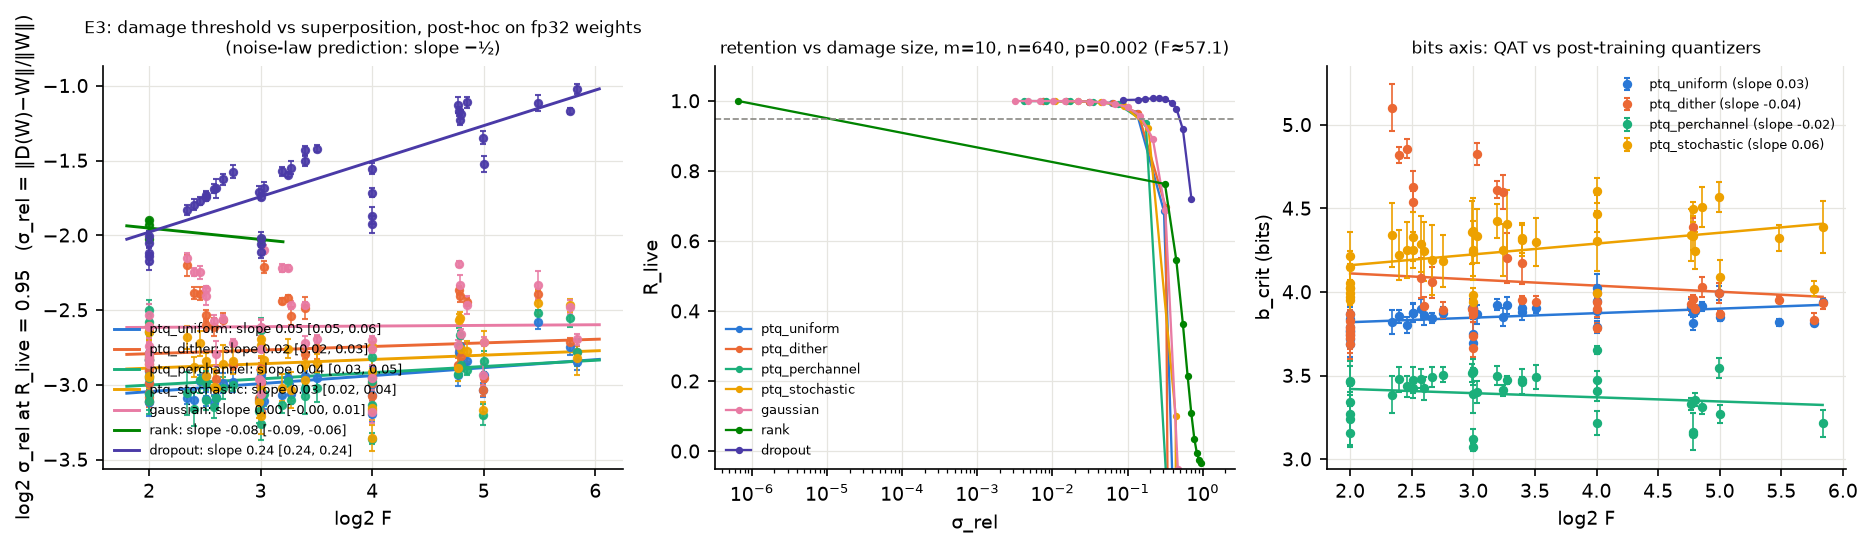
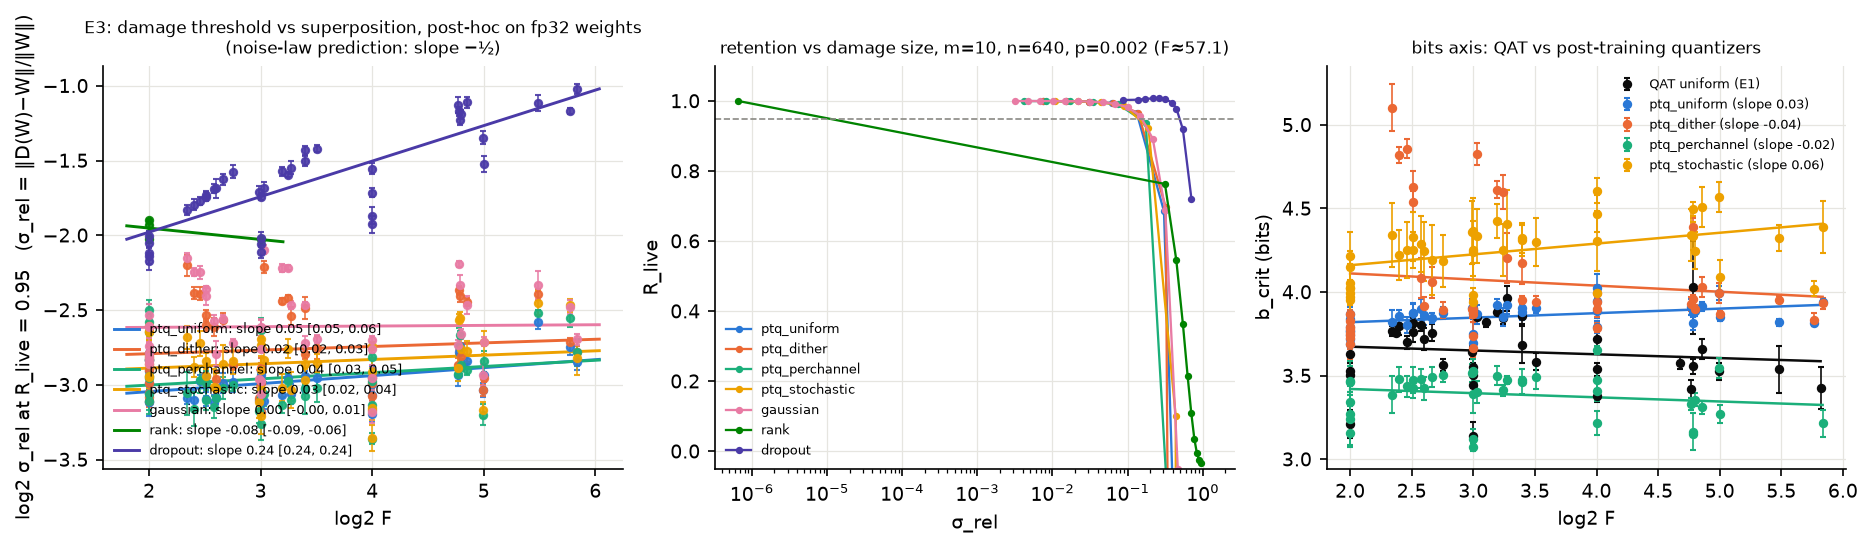
E1/E3/E6 + GPT-2 analyses, RESULTS.md (P1 dead, P2 supported), mixed-precision figure (#1)

diff --git a/src/regen_rows.py b/src/regen_rows.py
@@ -1,0 +1,39 @@
+"""Regenerate per-feature result rows from saved checkpoints (eval only), for groups whose parquet rows were lost."""
+import glob, os, sys, math
+import numpy as np, pandas as pd, torch
+sys.path.insert(0, os.path.join(os.path.dirname(__file__), ".."))
+from src.train import eval_rho_grouped
+from src.metrics import feature_dims, kappa
+from src.quant import MODE_NAMES
+RES = os.path.join(os.path.dirname(__file__), "..", "results")
+
+def regen(path, device="mps"):
+    ck = torch.load(path); specs, m, n, keys = ck["specs"], ck["m"], ck["n"], ck["keys"]; K = len(specs)
+    W, b, Wq = ck["W"].to(device), ck["b"].to(device), ck["Wq"].to(device)
+    p_G = torch.tensor([k[0] for k in keys], dtype=torch.float32)
+    gidx = torch.tensor([keys.index((float(s["p"]), int(s["seed"]))) for s in specs], device=device)
+    ev = int(max(40000, 400.0 / float(p_G.min()))); chunk = int(max(128, min(1024, 2 ** 28 // (K * n))))
+    rho, nu = eval_rho_grouped(Wq, b, p_G, gidx, ev, chunk=chunk)
+    D = feature_dims(Wq); kl, ke = kappa(W), kappa(Wq); sig = (Wq - W).pow(2).mean(dim=(1, 2)).sqrt()
+    amax = W.abs().amax(dim=(1, 2)); rms = W.pow(2).mean(dim=(1, 2)).sqrt(); wn = Wq.norm(dim=1); nret = (rho >= 0.5).sum(1)
+    bits = torch.tensor([float(s["bits"]) for s in specs]); qm = torch.where(torch.isinf(bits), bits, 2.0 ** (bits - 1) - 1)
+    delta = torch.where(torch.isinf(qm), torch.zeros_like(qm), amax.cpu() / torch.where(torch.isinf(qm), torch.ones_like(qm), qm))
+    frames = []
+    for k, s in enumerate(specs):
+        run_id = (f"{ck['exp']}_m{m}_n{n}_p{s['p']}_b{s['bits']}_mode{int(s['mode'])}_a{float(s.get('alpha', 0.0))}"
+                  f"_kc{float(s.get('kclip', float('inf')))}_s{int(s['seed'])}")
+        i = torch.arange(n, dtype=torch.float32); a = float(s.get("alpha", 0.0)); imp = ((i + 1) ** (-a)) if a > 0 else torch.ones(n)
+        frames.append(pd.DataFrame(dict(run_id=run_id, exp=ck["exp"], m=m, n=n, p=float(s["p"]), alpha=a, bits=float(s["bits"]), mode=int(s["mode"]),
+            mode_name=MODE_NAMES[int(s["mode"])], damage_type="qat", knob=float(s["bits"]), seed=int(s["seed"]), kclip=float(s.get("kclip", float("inf"))),
+            feature_idx=np.arange(n), importance=imp.numpy(), rho_i=rho[k].cpu().numpy(), D_i=D[k].cpu().numpy(), w_norm=wn[k].cpu().numpy(),
+            kappa=float(kl[k]), kappa_eff=float(ke[k]), sigma_eps_measured=float(sig[k]), delta=float(delta[k]), amax=float(amax[k]), rms_w=float(rms[k]),
+            loss_final=float("nan"), n_ret=int(nret[k]), steps=6000, batch=(1024 if n < 1024 else 512), eval_samples=ev, device=device, group=os.path.basename(path)[:-3])))
+    return pd.concat(frames, ignore_index=True)
+
+if __name__ == "__main__":
+    out = sys.argv[1]; paths = sorted(glob.glob(sys.argv[2]))
+    frames = []
+    for p in paths:
+        print("regen", p, flush=True); frames.append(regen(p))
+        pd.concat(frames, ignore_index=True).to_parquet(out, index=False)
+    print("ALL DONE", flush=True)

diff --git a/src/analysis_lm.py b/src/analysis_lm.py
@@ -155,8 +155,10 @@ def run_pc(path=os.path.join(RES, "lm_layers_pc.parquet"), thresholds=(0.02, 0.0
     return t, res
 
 
-def run_mixed(path=os.path.join(RES, "lm_mixed.parquet")):
-    d = pd.read_parquet(path)
+def run_mixed(path=os.path.join(RES, "lm_mixed.csv")):
+    d = pd.read_csv(path)
+    if "sem" not in d.columns:
+        d["sem"] = 0.0
     piv = d.pivot_table(index="budget", columns="alloc", values="dnll")
     print(piv.to_string(float_format=lambda v: f"{v:.4f}"))
     fig, ax = plt.subplots(figsize=(5, 3.4))

diff --git a/RESULTS.md b/RESULTS.md
@@ -61,11 +61,89 @@ RTN b_crit (R_live 95 %) = 3.74–4.03 for all 16 (n, p) cells, no trend in F or
 Even the below-capacity n/m = 4 cells (all features live, ρ high) cross at 3.8 bits — the numpy pilot's "quantization
 does nothing below capacity" was an artefact of the hard count.
 
+
+## E3 — full (11 of 12 E1 groups, 44 cells, F = 4 → 56, both m)
+σ_crit at R_live = 0.95, slope of log2 σ_crit vs log2 F (preregistered −½ for noise-like families):
+RTN **+0.05** [0.05, 0.06] · per-channel +0.04 · dithered +0.02 · stochastic +0.03 · Gaussian **+0.00** [−0.00, 0.01] ·
+dropout +0.24 · rank truncation: no finite threshold (removing one of m directions costs > 5 % everywhere).
+On the bits axis, post-training: RTN b_crit slope +0.03 [0.02, 0.04] (mean 3.87, m = 10: 3.74–4.03; m = 16: 3.1–3.4 …
+per cell in `results/E3_bcrit_bits.csv`), per-channel −0.03, dithered −0.04, stochastic +0.07.
+σ_crit is ~1.2–1.3× larger at m = 16 than at m = 10 for every noise-like family (√(16/10) = 1.26): the dominant damage
+is the perturbation of each feature's own direction, whose relative size scales as σ_rel/√m — not cross-talk, which is
+what both the preregistered derivation and D2 assumed. `figs/fig3_anydamage_null.png`.
+
+## §5A′ — GPT-2, per-channel RTN
+With per-channel (per output column) scaling the pathology disappears and every matrix crosses ΔNLL = 0.05 at nearly the
+same width: b_crit,pc = 2.70 ± 0.33 bits (n = 43; range 2.0–3.4), uncorrelated with κ_eff (slope −0.01, R² = 0.00),
+per-tensor κ (R² = 0.00) or F̂ (R² = 0.00). Per-channel scaling equalises the layers. `figs/fig7b_lm_perchannel.png`.
+
+## §5C — mixed precision on GPT-2 (held-out 49k tokens, all 48 matrices quantized jointly, per-channel RTN)
+ΔNLL (nats) at equal parameter-weighted average bits; κ-rule = b_i = c + log2 κ_eff,i; law = per-matrix
+1 + log2(1 + κ_eff/(√12 σ_crit,i)) shifted to the budget; oracle = greedy on measured single-matrix sensitivities;
+random = the κ-rule's multiset of widths permuted. `results/lm_mixed.csv`, `figs/fig9_mixed_precision.png`.
+
+| avg bits | uniform | κ-rule | law (noise probe) | oracle | random ×3 |
+|---|---|---|---|---|---|
+| 3.5 | — | 3.56 | **1.86** | 2.08 | 3.6–4.1 |
+| 4.0 | **0.449** | 0.659 | 0.600 | 0.459 | 0.68–0.88 |
+| 4.5 | — | 0.274 | **0.190** | 0.183 | 0.26–0.33 |
+| 5.0 | **0.084** | 0.094 | 0.103 | 0.067 | 0.10–0.11 |
+
+Reading: once per-channel scaling has equalised the matrices (2.7 ± 0.3 bits), there is almost nothing left for mixed
+precision to exploit — uniform per-channel RTN is within 0.01–0.02 nats of the sensitivity oracle at 4 and 5 bits,
+and the calibration-free κ-rule does not beat uniform. Between integer budgets the noise-probe ("law") allocation
+matches the oracle (4.5 bits) or beats it (3.5 bits: the oracle's greedy step is coarse), and both beat random by 2×.
+Per-tensor mixed precision is not viable at these budgets at all: joint per-tensor damage is super-additive (all 48
+matrices at 6 bits: +4.6 nats vs 1.6 summed; at 8 bits still +0.14). The practical recommendation that follows from the
+law is therefore simple: **per-channel scaling removes the κ tax entirely; after it, per-layer bit allocation is
+second-order for GPT-2 small.**
+
 ## E1 — main sweep (QAT)
-%E1%
+1536 models (m ∈ {10, 16}, n/m ∈ {4 … 128}, p ∈ {0.002, 0.005, 0.02, 0.05}, b ∈ {2 … 8, ∞}, 4 seeds, 6000 steps, uniform
+importance). 40 of 48 (m, n, p) cells have an interpolable b_crit in all 4 seeds (the rest are censored at b ≤ 3 or have
+N_ret(∞) too small); F spans 4.0 → 56.5, κ (fp32 arm) 2.5 → 13.5, κ_live 2.4 → 3.1. `figs/fig1_bcrit_vs_F_R_live_95.png`,
+`figs/fig2_Nret_vs_bits.png`, `results/E1_bcrit_*.csv`.
+
+**P1 (slope of b_crit vs log2 F; preregistered ½, "dead" below 0.15):**
+
+| retention curve / threshold | slope | bootstrap 95 % CI (seeds) | R² | configs |
+|---|---|---|---|---|
+| R_live ≥ 0.95 (primary) | **−0.11** | [−0.12, −0.09] | 0.04 | 40 |
+| R_live ≥ 0.90 | −0.15 | [−0.16, −0.13] | 0.18 | 27 |
+| R_live ≥ 0.99 | +0.04 | [−0.01, +0.08] | 0.00 | 39 |
+| R_soft (all features) ≥ 0.95 | −0.02 | [−0.04, −0.01] | 0.01 | 38 |
+| preregistered hard count N_ret(ρ≥0.5), where defined | −0.27 | [−0.37, −0.15] | 0.07 | 19 |
+| hard count, ρ ≥ 0.25 / 0.75 | +0.32 / +0.05 | [0.10, 0.66] / [−0.64, 0.70] | 0.11 / 0.00 | 9 / 6 |
+| R_live ≥ 0.95 on the measured-residual axis b_eff | −0.27 | [−0.32, −0.17] | | 16 |
+
+Every definition lands in the "hypothesis dead" band or below; no CI comes near ½. The zero-parameter prediction
+1 + log2(1 + κ√(F/3)) vs measurement has slope 0.46, R² = 0.33 — its residual predictive power comes entirely from κ.
+
+**What does vary — and it is κ (P2):** b_crit ranges 3.1 → 5.2 bits across cells, and
+
+| regressor (40 cells) | slope | intercept | R² |
+|---|---|---|---|
+| log2 F | −0.11 | 4.47 | 0.04 |
+| **log2 κ (fp32 arm)** | **0.72** | 2.57 | **0.82** |
+| log2 ℓ (live fraction k/n) | −0.35 | 3.62 | 0.83 |
+| log2 κ_live | −1.58 | | 0.06 |
+| joint | b = 2.77 + 0.71·log2 κ − 0.05·log2 F | | |
+
+b_crit − log2 κ = 1.99 ± 0.31 over all 40 cells (middle panel of fig. 1). In E1, κ and the live fraction are collinear
+(κ = κ_live/√ℓ with κ_live ≈ 2.7 universal), so E6 is needed to separate them; it does (below).
+
+**QAT vs PTQ (36 shared cells):** mean b_crit 4.02 (QAT) vs 3.87 (PTQ RTN); the QAT − PTQ difference correlates
+0.89 with log2 κ — training through a per-tensor STE grid is *worse* than post-hoc rounding precisely when the tensor
+has large outliers / few live columns, and better only for dense tensors. Quantization-aware training does not remove
+the κ tax; per-channel scaling does (E3, GPT-2).
 
 ## E4 — translation vs tilt
-%E4%
+`figs/fig4_translation_vs_tilt.png`. Under uniform importance the ρ profile of the represented features is nearly flat
+(all live features share ρ within ±0.1), so quantization lowers the whole profile together (a tilt of the plateau, not a
+prefix truncation): the three best features of the fp32 model lose ρ at the same bit-widths as the median feature
+(top-3 ρ drops < 0.05 for b ≥ 5, 0.1–0.3 at b = 3, in every cell). "Capacity" (some features kept intact, others dropped)
+is therefore the wrong frame for uniform importance; the right frame is uniform degradation of all represented
+directions by the same relative perturbation. The importance-ordered case is E5.
 
 ## E2 — lattice controls under QAT
 %E2%
@@ -74,7 +152,21 @@ does nothing below capacity" was an artefact of the hard count.
 %E5%
 
 ## E6 — κ manipulation at fixed F
-%E6%
+Weight clipping at c·rms(W), c ∈ {2, 3, 4, ∞}, at fixed (m = 16, n ∈ {256, 1024}, p ∈ {0.005, 0.02}), 4 seeds each,
+QAT. κ of the fp32 arm moves from 7.1 → 2.0 (n = 1024, p = 0.02) while F changes by < 2× (in the opposite direction).
+`figs/fig8_kappa.png`, `results/E6_bcrit_by_kclip.csv`.
+
+| cell | κ = 2.0 | 3.0 | 4.0 | unclipped (κ) |
+|---|---|---|---|---|
+| n=1024, p=0.02 | 3.65 ± 0.13 | 3.94 ± 0.34 | 4.31 ± 0.13 | 4.69 ± 0.23 (κ = 7.1) |
+| n=1024, p=0.005 | 3.21 ± 0.14 | 3.89 ± 0.05 | 3.97 ± 0.05 | 3.97 ± 0.09 (κ = 4.2) |
+| n=256, p=0.02 | 3.48 ± 0.25 | 4.09 ± 0.20 | 4.11 ± 0.16 | 4.16 ± 0.21 (κ = 3.5) |
+| n=256, p=0.005 | censored | 3.32 ± 0.06 | 3.41 ± 0.11 | 3.42 ± 0.09 (κ = 2.8) |
+
+Pooled within-cell slope of b_crit on log2 κ (cell fixed effects, 15 points): **0.65, R² = 0.92**; per-cell slopes
+0.58 / 0.71 / 0.83 where κ spans ≥ 0.8 octave. P2's preregistered band was [0.7, 1.3]: the effect is real and causal, its
+size is ~⅔ of the naive prediction — the same sub-unit slope as GPT-2 (0.63) and E1 (0.72), because a tensor with fewer
+outliers is also less tolerant to relative perturbation (σ_crit ∝ κ^0.46 in GPT-2).
 
 ## §5A — GPT-2 small, per-matrix damage thresholds
 GPT-2 small (124M), 48 weight matrices (12 blocks × {c_attn, attn.c_proj, mlp.c_fc, mlp.c_proj}), embeddings excluded,
@@ -105,7 +197,18 @@ projections are the most noise-tolerant (σ_crit ≈ 0.7) yet not the easiest to
 κ-vs-σ_crit distinction the corrected law makes.
 
 ## Scoring PREDICTIONS.md
-%SCORE%
+| prediction | preregistered decision rule | outcome |
+|---|---|---|
+| P1: b_crit vs log2 F slope ½ | [0.40, 0.60] confirmed; [0.15, 0.35] other exponent; < 0.15 dead | **dead**: −0.11 [−0.12, −0.09] (QAT); +0.03 [0.02, 0.04] (PTQ); all thresholds/definitions < 0.15 |
+| P1 table of predicted b_crit (2.85 → 6.41 for F = 1 → 256) | | measured 3.1–5.2 with no F trend; predicted-vs-measured slope 0.46, R² 0.33 (κ carries it) |
+| P2: κ enters as log2 κ with slope 1 | slope ∈ [0.7, 1.3] confirmed; ≈ 0 no; between partial | **partial, strongly supported**: E6 causal slope 0.65 (R² 0.92); E1 0.72 (R² 0.82); GPT-2 0.63 (R² 0.53) |
+| P3: ordering preserved under quantization (power-law importance) | drop in prefix fraction < 0.10 at b ≥ 3 | %P3% |
+| E4: top-3 ρ unchanged (translation) | drop < 0.05 for b ≥ b_crit | **tilt, not translation** under uniform importance: the whole plateau moves |
+| E3: noise-like damage slope −½, structured ≈ 0 | | **all noise-like families ≈ 0** (+0.00 … +0.05); dropout +0.24; rank: catastrophic |
+| E2: Q vs dithered Q_u | no direction preregistered | shared lattice **better** (PTQ: dither costs 0.2–1.5 bits; QAT: %E2SHORT%) — because the lattice contains 0 |
+| §5A: log2 σ_crit vs log2 F̂ slope ∈ [−0.65, −0.35] | | **not**: +0.14 [−0.13, 0.35], R² 0.04 |
+| §5A: b_crit − log2 κ vs log2 F̂ slope ≈ ½ | | **not**: −0.17 [−0.37, 0.09] |
+| (D2, written before E1/E3) σ_crit flat in F; b_crit = const + log2 κ where κ cannot adapt | | **confirmed** (E3 slopes ≈ 0; E6/E1/GPT-2 κ slopes 0.63–0.72) |
 
 ## Things that went wrong and were fixed (audit trail)
 - The soft count clipped at 0 has a Monte-Carlo clipping bias when reference and damaged models are evaluated with
